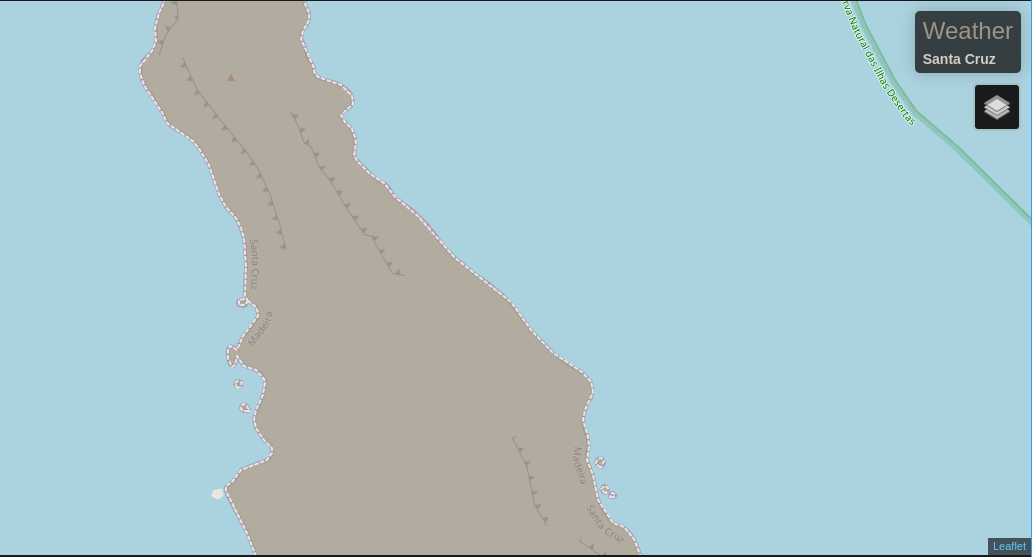
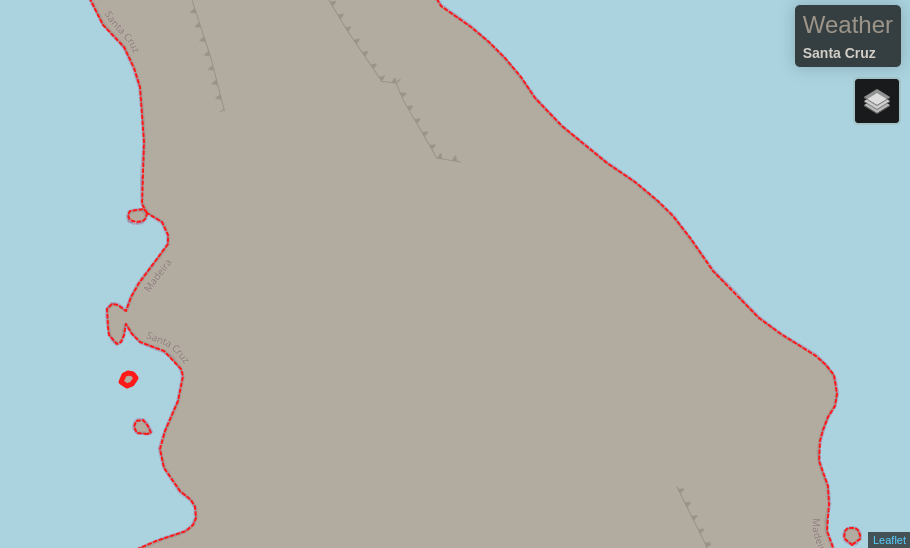
Updated santaCruz photo for better visualization

diff --git a/README.md b/README.md
@@ -1,4 +1,7 @@
 # Weather Data Backend Microservice
+
+<br>
+
 ## Map projections
 [geoJSONs Used.](https://github.com/nmota/caop_GeoJSON)
 
@@ -42,6 +45,7 @@ When fecthing the weatcher from the external API, it converts those coordinates 
 <p>WEATHER_DATA_PORT</p>
 <p>WEATHER_API_KEY</p>
 
+<br>
 
 ## MultiPolygon features
 Some features in a geoJSON are made of various regions.
